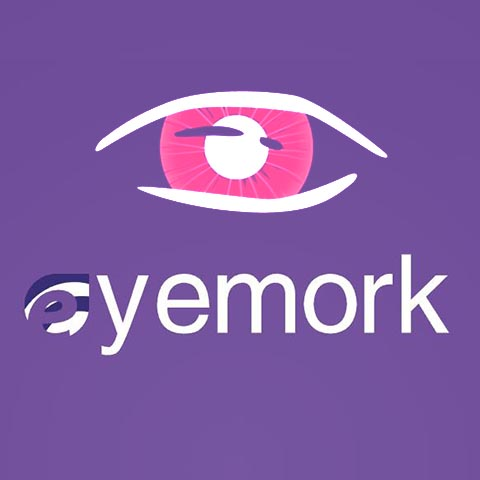
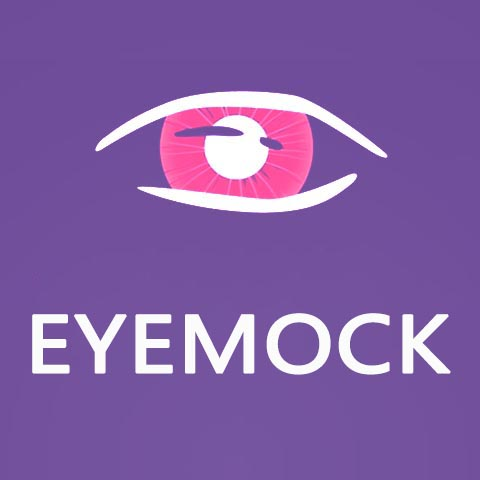
1235

Changed region(s): [[0.0312, 0.5312, 0.9375, 0.7812]]

diff --git a/subwwww/tools.html b/subwwww/tools.html
@@ -317,7 +317,7 @@ if (navigator.language)var language = navigator.language;else var language = nav
 	</a></div><a class="bitImageAhover  "> </a>
 	<div id="vc_header_62242a9f0305390" m-padding="20px 0px 10px 0px" p-padding="20px 0 10px 0" css_animation_delay="0" qfyuuid="qfy_header_qfn3r" data-anitime="0.7" data-ani_iteration_count="1" class="qfy-element minheigh1px qfe_text_column qfe_content_element " style="position: relative;;;background-repeat: no-repeat;;margin-top:0;margin-bottom:0;padding-top:20px;padding-bottom:10px;padding-right:0;padding-left:0;"><style>@media only screen and (max-width: 768px) {#vc_header_62242a9f0305390 .header_title{font-size:14px !important;}}@media only screen and (max-width: 768px) {#vc_header_62242a9f0305390 .header_subtitle{font-size:14px !important;}}</style>
 		<div class="qfe_wrapper">
-			<div class="qfy_title left mobileleft"><div class="qfy_title_image_warpper" style="display:inline-block;position:relative;max-width:100%;"><div class="qfy_title_inner" style="display:inline-block;position:relative;max-width:100%;"><div class="header_title" style="font-family:微软雅黑;font-size:16px;font-weight:normal;font-style:normal;color:#000;padding:0 10px 0 0;display:inline-block;padding:0 10px 0 0;vertical-align:middle;">EyeMork</div><div class="header_subtitle" style="font-size:15px;font-weight:normal;font-style:normal;color:#888888;display:inline-block;vertical-align:middle;">PC/Web</div></div><style></style><div class="button_wrapper" style="display:none;"><div class="button " style="display:inline-block;max-width:100%;text-align:center; font-size:14px; color:#333; padding:5px;">+ 查看更多</div></div><span style="clear:both;"></span></div></div>
+			<div class="qfy_title left mobileleft"><div class="qfy_title_image_warpper" style="display:inline-block;position:relative;max-width:100%;"><div class="qfy_title_inner" style="display:inline-block;position:relative;max-width:100%;"><div class="header_title" style="font-family:微软雅黑;font-size:16px;font-weight:normal;font-style:normal;color:#000;padding:0 10px 0 0;display:inline-block;padding:0 10px 0 0;vertical-align:middle;">EyeMock</div><div class="header_subtitle" style="font-size:15px;font-weight:normal;font-style:normal;color:#888888;display:inline-block;vertical-align:middle;">PC/Web</div></div><style></style><div class="button_wrapper" style="display:none;"><div class="button " style="display:inline-block;max-width:100%;text-align:center; font-size:14px; color:#333; padding:5px;">+ 查看更多</div></div><span style="clear:both;"></span></div></div>
 		</div> 
 	</div> 
 	<div m-padding="0px 0px 0px 0px" p-padding="   " css_animation_delay="0" qfyuuid="qfy_column_text_683ka" class="qfy-element qfy-text qfy-text-34167 qfe_text_column qfe_content_element  mobile_fontsize " style="position: relative;;;line-height:1.5em;;background-position:0 0;background-repeat: no-repeat;;margin-top:;margin-bottom:;padding-top:;padding-bottom:;padding-right:;padding-left:;border-radius:0px;">
@@ -327,7 +327,7 @@ if (navigator.language)var language = navigator.language;else var language = nav
 </div>
 		</div> 
 	</div> <div id="qfy-btn-62242a9f032452306" style="margin-top:0;margin-bottom:0;padding-top:0;padding-bottom:0;padding-right:0;padding-left:0;" m-padding="0px 0px 0px 0px" p-padding="0 0 0 0" css_animation_delay="0" qfyuuid="qfy_btn_7569y" data-anitime="0.7" data-ani_iteration_count="1" class="qfy-element vc_btn3-container vc_btn3-center">
-<a onmouseleave="this.style.borderColor=&#39;#555&#39;; this.style.backgroundColor=&#39;#555&#39;; this.style.color=&#39;#fff&#39;;" onmouseenter="this.style.backgroundColor=&#39;#464646&#39;; this.style.borderColor=&#39;#464646&#39;; this.style.color=&#39;#fff&#39;;" style="border-width: 2px; border-color: rgb(85, 85, 85); background-color: rgb(85, 85, 85); color: rgb(255, 255, 255);" class="vc_general vc_btn3 vc_btn3-size-sm vc_btn3-shape-square vc_btn3-style-qfy-custom" href="eyemork.html" target="">免费下载</a></div>
+<a onmouseleave="this.style.borderColor=&#39;#555&#39;; this.style.backgroundColor=&#39;#555&#39;; this.style.color=&#39;#fff&#39;;" onmouseenter="this.style.backgroundColor=&#39;#464646&#39;; this.style.borderColor=&#39;#464646&#39;; this.style.color=&#39;#fff&#39;;" style="border-width: 2px; border-color: rgb(85, 85, 85); background-color: rgb(85, 85, 85); color: rgb(255, 255, 255);" class="vc_general vc_btn3 vc_btn3-size-sm vc_btn3-shape-square vc_btn3-style-qfy-custom" href="eyemock.html" target="">免费下载</a></div>
 
 <br><div class="qfe_wrapper " style="display: none;" ><div style="position: relative;"><div>
 <span style="color: rgb(0, 0, 0);">参考价格: <span style="color: rgb(255, 0, 0);"><del>原价￥399 </span> </del>￥299  (永久使用) </span>

diff --git a/subwwww/eyemock.html b/subwwww/eyemock.html
@@ -15,7 +15,7 @@
 	<meta name="viewport" content="width=device-width, initial-scale=1, maximum-scale=1">
 	<meta name="robots" content="index, follow">
 <meta name="description" content="3Dfacecreate">
-<title>Motionface EyeMork下载</title>
+<title>Motionface EyeMock下载</title>
 	 
 	<style type="text/css" id="static-stylesheet"></style>
 	<link rel="stylesheet" href="./vtuberface_files/236f82d126ec2fb9cf8f02fc2afd47cd.css" type="text/css" media="all"> <!-- Cache! -->
@@ -149,7 +149,7 @@ var _hmt = _hmt || [];
             <div data-animaleinbegin="90%" data-animalename="qfyfadeInUp" data-duration="" data-delay="" class=" qfy-column-1-624fe2606d9f2295343 qfy-column-inner  vc_span12  text-center small-screen-left fullrow" data-dw="1/1" data-fixheight=""><div style="margin-top:0;margin-bottom:0;margin-left:0;margin-right:0;border-radius:0px;;position:relative;" class="column_inner "><div class=" background-overlay grid-overlay-0" style="background-color: transparent;width:100%;"></div><div class="column_containter" style="z-index:3;position:relative;">
 	<div id="vc_header_624fe2606dad3139" m-padding="0px 0px 0px 0px" p-padding="0 0 0 0" css_animation_delay="0" qfyuuid="qfy_header_osdp8" data-anitime="0.7" data-ani_iteration_count="1" class="qfy-element minheigh1px qfe_text_column qfe_content_element " style="position: relative;;;background-repeat: no-repeat;;margin-top:0;margin-bottom:0;padding-top:0;padding-bottom:0;padding-right:0;padding-left:0;"><style>@media only screen and (max-width: 768px) {#vc_header_624fe2606dad3139 .header_title{font-size:20px !important;}}@media only screen and (max-width: 768px) {#vc_header_624fe2606dad3139 .header_subtitle{font-size:20px !important;}}</style>
 		<div class="qfe_wrapper">
-			<h2 class="qfy_title center mobilecenter"><div class="qfy_title_inner" style="display:inline-block;position:relative;max-width:100%;"><div class="header_title" style="font-family:微软雅黑;font-size:30px;font-weight:normal;font-style:normal;color:#333333;">EyeMork目光直视</div></div><style></style><div class="button_wrapper" style="display:none;"><div class="button " style="display:inline-block;max-width:100%;text-align:center; font-size:14px; color:#333; padding:5px;">+ 查看更多</div></div><span style="clear:both;"></span></h2>
+			<h2 class="qfy_title center mobilecenter"><div class="qfy_title_inner" style="display:inline-block;position:relative;max-width:100%;"><div class="header_title" style="font-family:微软雅黑;font-size:30px;font-weight:normal;font-style:normal;color:#333333;">EyeMock目光直视</div></div><style></style><div class="button_wrapper" style="display:none;"><div class="button " style="display:inline-block;max-width:100%;text-align:center; font-size:14px; color:#333; padding:5px;">+ 查看更多</div></div><span style="clear:both;"></span></h2>
 		</div> 
 	</div> 
 	<div m-padding="18px 0px 38px 0px" p-padding="15px 0 0 0" css_animation_delay="0" qfyuuid="qfy_column_text_5w5yu" data-anitime="0.7" data-ani_iteration_count="1" class="qfy-element qfy-text qfy-text-28467 qfe_text_column qfe_content_element  " style="position: relative;;;line-height:2em;;background-color: transparent;background-position:0 0;background-repeat: no-repeat;;margin-top:0;margin-bottom:0;padding-top:15px;padding-bottom:0;padding-right:0;padding-left:0;border-radius:0px;">
